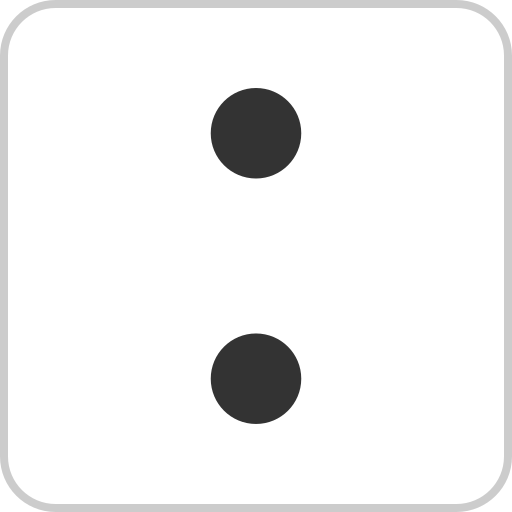
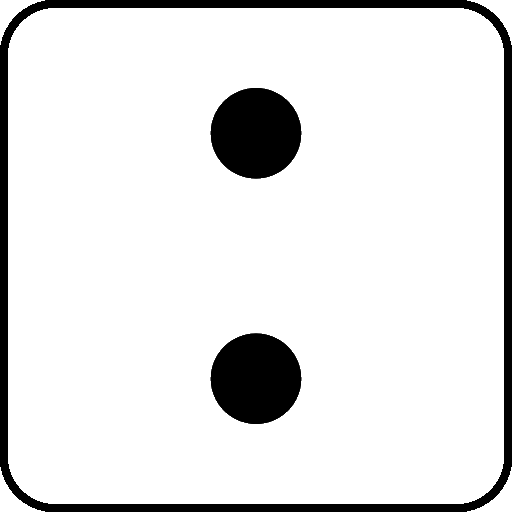
Index graphics
graphics of index page

Changed region(s): [[0.0, 0.0, 1.0, 1.0], [0.4062, 0.625, 0.5938, 0.8438], [0.4062, 0.1562, 0.5938, 0.375]]

diff --git a/index.html b/index.html
@@ -1,12 +1,28 @@
 <html>
   <head>
     <title>Coder bourré</title>
-    
+    <link href="/static/index.css" rel="stylesheet">
   </head>
   <body>
 	  <h1>Salut les connards</h1>
-	  <a href="./game">Game</a>
-	  <a href="./fuckthedealer">Fuck the dealer</a>
-	  <a href="./maya/home">Maya</a>
+
+	  <fieldset class="game"> 
+	  	<legend>Jeux de cartes <img src="/static/img/utils/card_logo.png" class="logo"></legend>
+		<a href="./fuckthedealer"><img src="/static/img/utils/spade_logo.png" class="logo">Fuck the dealer</a>
+	  </fieldset>
+
+	  <fieldset class="game"> 
+	  	<legend>Jeux de dés <img src="/static/img/utils/dice_logo.png" class="logo"></legend>
+		<a href="./maya/home"><img src="/static/img/utils/dice_1_logo.png" class="logo"> Maya</a>
+		<br>
+		<a href="./maya/home" class="comingSoon"><img src="/static/img/utils/dice_2_logo.png" class="logo"> Paco (a venir)</a>
+	  </fieldset>
+
+	  <fieldset class="game"> 
+	  	<legend>Autres <img src="/static/img/utils/random_logo.png" class="logo"></legend>
+	  	<a href="./game"><img src="/static/img/utils/random_logo.png" class="logo"> Game</a>
+	  </fieldset>
+
+	  
   </body>
 </html>

diff --git a/static/index.css b/static/index.css
@@ -1,0 +1,50 @@
+html {
+  background: Ivory;
+}
+h1 {
+    text-align: center;
+}
+
+fieldset {
+  border: 1px solid black;
+  border-top: 20px solid IndianRed;
+  border-bottom: 10px solid IndianRed;
+  background: white;
+  margin: auto;
+}
+
+fieldset legend {
+  text-transform: capitalize;
+  font-variant: small-caps;
+  background: IndianRed;
+  color: Ivory;
+  position: relative;
+  top: -9px;
+  left: 0px;
+  padding: 5px 20px;
+  font-size: 24px;
+  border-radius: 8px 8px 0 0;
+}
+
+fieldset.game {
+  margin-top: 50px;
+  width: 60%;
+}
+
+.logo {
+  width: 30px;
+}
+
+a:visited,
+a:link {
+  color: black;
+  text-transform: capitalize;
+  font-variant: small-caps;
+  font-size: 24px;
+  text-decoration: none;
+}
+
+.comingSoon {
+  color: DarkGray !important;
+  font-style: italic !important;
+}
